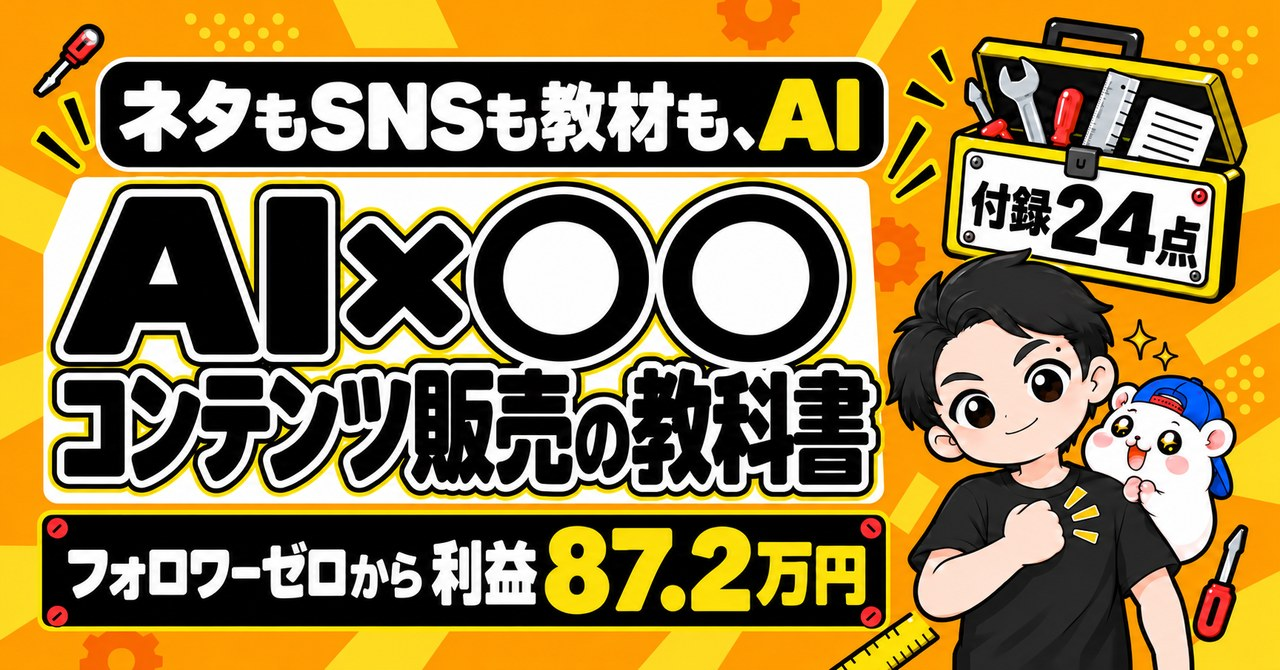
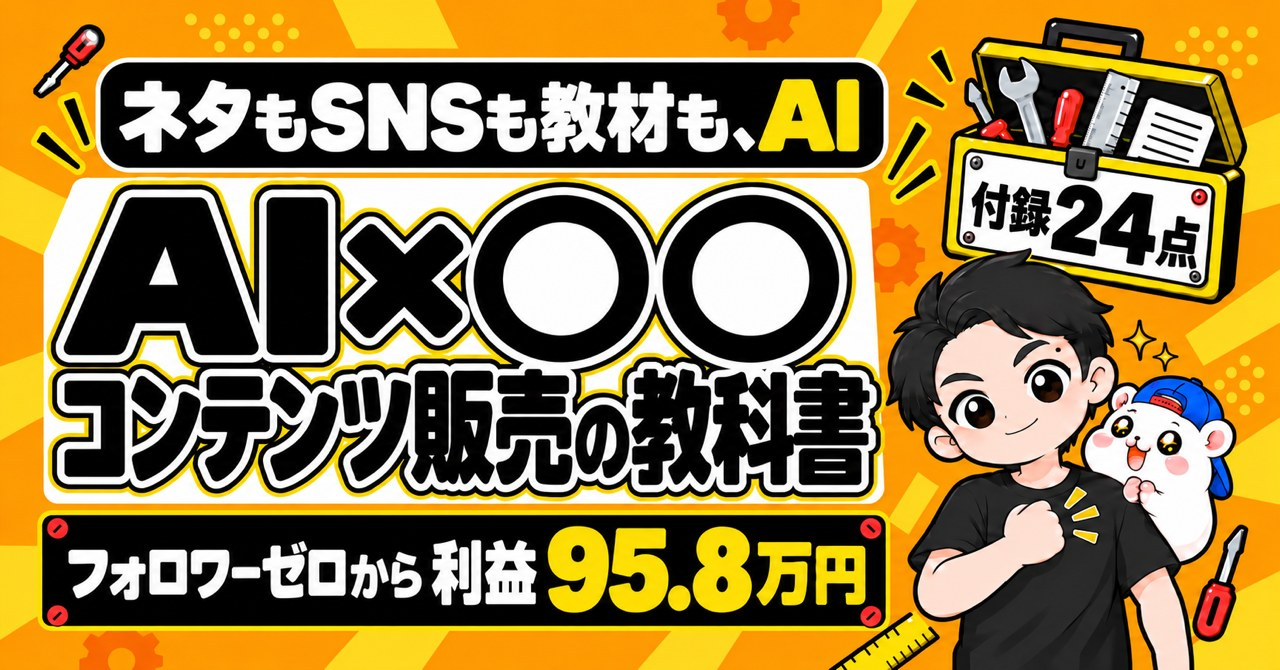
Update the AI content-sales textbook's track record to 95.8万円 (54 days, 80 copies) on its sales page and article promos

diff --git a/articles/2026-10-19-content-sales-pyramid-44-percent-zero.html b/articles/2026-10-19-content-sales-pyramid-44-percent-zero.html
@@ -127,7 +127,7 @@
 <li><strong>次に、これまでの売上で10万円</strong>(上位17%)</li>
 <li><strong>そのあと、月10万円</strong>(この90日に動いている人の上位10%)</li>
 </ol>
-<p>例えば、ぼくは発売から47日で63部、利益87.2万円でした。</p>
+<p>例えば、ぼくは発売から54日で80部、利益95.8万円でした。</p>
 <p>1部売れると、何が効いたかが分かります。</p>
 <p>そこからは、効いたことを増やすだけです。</p>
 <p>自分がいまどの段にいるかは、この指示文でAIに出してもらえます。</p>
@@ -149,21 +149,21 @@
 <hr/>
 <!-- kyokasho-promo start -->
 <p>▼1部目から、ひとつ上の段まで。やったことを1冊にまとめてあります</p>
-<p>フォロワーゼロから利益87.2万円まで、47日間の数字と失敗と手順を、全部書いた教科書です。</p>
+<p>フォロワーゼロから利益95.8万円まで、54日間の数字と失敗と手順を、全部書いた教科書です。</p>
 <p>録音から記事、教材、販売ページ、売れたあとの台帳まで。うちで毎日使っているツールも付録に入れました。</p>
-<p>『「AI×◯◯」コンテンツ販売の教科書｜フォロワーゼロから利益87.2万円』</p>
-<div class="link-card-wrap"><a class="link-card" href="https://rental-space.net/kyokasho/ai-contents/?utm_source=blog&amp;utm_medium=article&amp;utm_campaign=content-sales-pyramid"><span class="lc-body"><span class="lc-title">「AI×◯◯」コンテンツ販売の教科書｜フォロワーゼロから利益87.2万円</span><span class="lc-desc">AIでやったことを、AIで教材にして売る。フォロワーゼロから発売47日で利益87.2万円。最初の章(第0部)は全部無料で読めます。</span><span class="lc-site">rental-space.net</span></span><span class="lc-thumb"><img src="/kyokasho/ai-contents/img/ogp.jpg" alt="" loading="lazy"></span></a></div>
+<p>『「AI×◯◯」コンテンツ販売の教科書｜フォロワーゼロから利益95.8万円』</p>
+<div class="link-card-wrap"><a class="link-card" href="https://rental-space.net/kyokasho/ai-contents/?utm_source=blog&amp;utm_medium=article&amp;utm_campaign=content-sales-pyramid"><span class="lc-body"><span class="lc-title">「AI×◯◯」コンテンツ販売の教科書｜フォロワーゼロから利益95.8万円</span><span class="lc-desc">AIでやったことを、AIで教材にして売る。フォロワーゼロから発売54日で利益95.8万円。最初の章(第0部)は全部無料で読めます。</span><span class="lc-site">rental-space.net</span></span><span class="lc-thumb"><img src="/kyokasho/ai-contents/img/ogp.jpg" alt="" loading="lazy"></span></a></div>
 <p>販売価格は3部売れるごとに2,000円ずつ値上がりします（上限あり）。内容・最新価格は販売ページをご確認ください。</p>
 <!-- kyokasho-promo end -->
 </div>
 <!-- kyokasho-banner-ai start -->
 <aside class="kyokasho-banner kb-ai">
     <a href="/kyokasho/ai-contents/" class="kb-thumb">
-        <img src="/kyokasho/ai-contents/img/ogp.jpg" alt="「AI×◯◯」コンテンツ販売の教科書｜フォロワーゼロから利益87.2万円" loading="lazy" width="640" height="335">
+        <img src="/kyokasho/ai-contents/img/ogp.jpg" alt="「AI×◯◯」コンテンツ販売の教科書｜フォロワーゼロから利益95.8万円" loading="lazy" width="640" height="335">
     </a>
     <div class="kb-body">
         <p class="kb-title">「AI×◯◯」コンテンツ販売の教科書</p>
-        <p class="kb-sub">フォロワーゼロから利益87.2万円まで、47日間の数字と失敗と手順を全部書きました。録音から記事・教材・販売ページ・売れたあとの台帳まで。付録24点つき。販売価格は3部売れるごとに2,000円ずつ値上がりします（上限あり）。内容・最新価格は販売ページをご確認ください。</p>
+        <p class="kb-sub">フォロワーゼロから利益95.8万円まで、54日間の数字と失敗と手順を全部書きました。録音から記事・教材・販売ページ・売れたあとの台帳まで。付録24点つき。販売価格は3部売れるごとに2,000円ずつ値上がりします（上限あり）。内容・最新価格は販売ページをご確認ください。</p>
         <div class="kb-actions">
             <a href="/kyokasho/ai-contents/" class="kb-btn kb-btn-ebay">くわしく見る・買う</a>
         </div>

diff --git a/articles/2026-10-20-content-sales-starts-with-voice-recording.html b/articles/2026-10-20-content-sales-starts-with-voice-recording.html
@@ -200,21 +200,21 @@
 <hr/>
 <!-- kyokasho-promo start -->
 <p>▼録音から記事、教材、販売ページまで。やったことを1冊にまとめてあります</p>
-<p>フォロワーゼロから利益87.2万円まで、47日間の数字と失敗と手順を、全部書いた教科書です。</p>
+<p>フォロワーゼロから利益95.8万円まで、54日間の数字と失敗と手順を、全部書いた教科書です。</p>
 <p>録音から記事、教材、販売ページ、売れたあとの台帳まで。うちで毎日使っているツールも付録に入れました。</p>
-<p>『「AI×◯◯」コンテンツ販売の教科書｜フォロワーゼロから利益87.2万円』</p>
-<div class="link-card-wrap"><a class="link-card" href="https://rental-space.net/kyokasho/ai-contents/?utm_source=blog&amp;utm_medium=article&amp;utm_campaign=content-sales-starts-with-voice-recording"><span class="lc-body"><span class="lc-title">「AI×◯◯」コンテンツ販売の教科書｜フォロワーゼロから利益87.2万円</span><span class="lc-desc">AIでやったことを、AIで教材にして売る。フォロワーゼロから発売47日で利益87.2万円。最初の章(第0部)は全部無料で読めます。</span><span class="lc-site">rental-space.net</span></span><span class="lc-thumb"><img src="/kyokasho/ai-contents/img/ogp.jpg" alt="" loading="lazy"></span></a></div>
+<p>『「AI×◯◯」コンテンツ販売の教科書｜フォロワーゼロから利益95.8万円』</p>
+<div class="link-card-wrap"><a class="link-card" href="https://rental-space.net/kyokasho/ai-contents/?utm_source=blog&amp;utm_medium=article&amp;utm_campaign=content-sales-starts-with-voice-recording"><span class="lc-body"><span class="lc-title">「AI×◯◯」コンテンツ販売の教科書｜フォロワーゼロから利益95.8万円</span><span class="lc-desc">AIでやったことを、AIで教材にして売る。フォロワーゼロから発売54日で利益95.8万円。最初の章(第0部)は全部無料で読めます。</span><span class="lc-site">rental-space.net</span></span><span class="lc-thumb"><img src="/kyokasho/ai-contents/img/ogp.jpg" alt="" loading="lazy"></span></a></div>
 <p>販売価格は3部売れるごとに2,000円ずつ値上がりします（上限あり）。内容・最新価格は販売ページをご確認ください。</p>
 <!-- kyokasho-promo end -->
 </div>
 <!-- kyokasho-banner-ai start -->
 <aside class="kyokasho-banner kb-ai">
     <a href="/kyokasho/ai-contents/" class="kb-thumb">
-        <img src="/kyokasho/ai-contents/img/ogp.jpg" alt="「AI×◯◯」コンテンツ販売の教科書｜フォロワーゼロから利益87.2万円" loading="lazy" width="640" height="335">
+        <img src="/kyokasho/ai-contents/img/ogp.jpg" alt="「AI×◯◯」コンテンツ販売の教科書｜フォロワーゼロから利益95.8万円" loading="lazy" width="640" height="335">
     </a>
     <div class="kb-body">
         <p class="kb-title">「AI×◯◯」コンテンツ販売の教科書</p>
-        <p class="kb-sub">フォロワーゼロから利益87.2万円まで、47日間の数字と失敗と手順を全部書きました。録音から記事・教材・販売ページ・売れたあとの台帳まで。付録24点つき。販売価格は3部売れるごとに2,000円ずつ値上がりします（上限あり）。内容・最新価格は販売ページをご確認ください。</p>
+        <p class="kb-sub">フォロワーゼロから利益95.8万円まで、54日間の数字と失敗と手順を全部書きました。録音から記事・教材・販売ページ・売れたあとの台帳まで。付録24点つき。販売価格は3部売れるごとに2,000円ずつ値上がりします（上限あり）。内容・最新価格は販売ページをご確認ください。</p>
         <div class="kb-actions">
             <a href="/kyokasho/ai-contents/" class="kb-btn kb-btn-ebay">くわしく見る・買う</a>
         </div>

diff --git a/articles/2026-10-18-manga-shorts-ai-daily.html b/articles/2026-10-18-manga-shorts-ai-daily.html
@@ -192,22 +192,22 @@
 <hr/>
 <!-- kyokasho-promo start -->
 <p>▼記事を素材にして発信を回すやり方は、ぜんぶ1冊にまとめてあります</p>
-<p>フォロワーゼロから利益87.2万円まで、47日間の数字と失敗と手順を、全部書いた教科書です。</p>
+<p>フォロワーゼロから利益95.8万円まで、54日間の数字と失敗と手順を、全部書いた教科書です。</p>
 <p>録音から記事、教材、販売ページ、売れたあとの台帳まで。うちで毎日使っているツールも付録に入れました。</p>
 <p>動画の章(第8部)は第2版で足します。すでに買った人には、追加料金はかかりません。</p>
-<p>『「AI×◯◯」コンテンツ販売の教科書｜フォロワーゼロから利益87.2万円』</p>
-<div class="link-card-wrap"><a class="link-card" href="https://rental-space.net/kyokasho/ai-contents/"><span class="lc-body"><span class="lc-title">「AI×◯◯」コンテンツ販売の教科書｜フォロワーゼロから利益87.2万円</span><span class="lc-desc">AIでやったことを、AIで教材にして売る。フォロワーゼロから発売47日で利益87.2万円。最初の章(第0部)は全部無料で読めます。</span><span class="lc-site">rental-space.net</span></span><span class="lc-thumb"><img src="/kyokasho/ai-contents/img/ogp.jpg" alt="" loading="lazy"></span></a></div>
+<p>『「AI×◯◯」コンテンツ販売の教科書｜フォロワーゼロから利益95.8万円』</p>
+<div class="link-card-wrap"><a class="link-card" href="https://rental-space.net/kyokasho/ai-contents/"><span class="lc-body"><span class="lc-title">「AI×◯◯」コンテンツ販売の教科書｜フォロワーゼロから利益95.8万円</span><span class="lc-desc">AIでやったことを、AIで教材にして売る。フォロワーゼロから発売54日で利益95.8万円。最初の章(第0部)は全部無料で読めます。</span><span class="lc-site">rental-space.net</span></span><span class="lc-thumb"><img src="/kyokasho/ai-contents/img/ogp.jpg" alt="" loading="lazy"></span></a></div>
 <p>販売価格は3部売れるごとに2,000円ずつ値上がりします（上限あり）。内容・最新価格は販売ページをご確認ください。</p>
 <!-- kyokasho-promo end -->
 </div>
 <!-- kyokasho-banner-ai start -->
 <aside class="kyokasho-banner kb-ai">
     <a href="/kyokasho/ai-contents/" class="kb-thumb">
-        <img src="/kyokasho/ai-contents/img/ogp.jpg" alt="「AI×◯◯」コンテンツ販売の教科書｜フォロワーゼロから利益87.2万円" loading="lazy" width="640" height="335">
+        <img src="/kyokasho/ai-contents/img/ogp.jpg" alt="「AI×◯◯」コンテンツ販売の教科書｜フォロワーゼロから利益95.8万円" loading="lazy" width="640" height="335">
     </a>
     <div class="kb-body">
         <p class="kb-title">「AI×◯◯」コンテンツ販売の教科書</p>
-        <p class="kb-sub">フォロワーゼロから利益87.2万円まで、47日間の数字と失敗と手順を全部書きました。録音から記事・教材・販売ページ・売れたあとの台帳まで。付録24点つき。販売価格は3部売れるごとに2,000円ずつ値上がりします（上限あり）。内容・最新価格は販売ページをご確認ください。</p>
+        <p class="kb-sub">フォロワーゼロから利益95.8万円まで、54日間の数字と失敗と手順を全部書きました。録音から記事・教材・販売ページ・売れたあとの台帳まで。付録24点つき。販売価格は3部売れるごとに2,000円ずつ値上がりします（上限あり）。内容・最新価格は販売ページをご確認ください。</p>
         <div class="kb-actions">
             <a href="/kyokasho/ai-contents/" class="kb-btn kb-btn-ebay">くわしく見る・買う</a>
         </div>

diff --git a/articles/2026-10-17-content-sales-idea-order.html b/articles/2026-10-17-content-sales-idea-order.html
@@ -197,21 +197,21 @@
 <hr/>
 <!-- kyokasho-promo start -->
 <p>▼AIで稼いで、教材にして売るまでを、ぜんぶ1冊にまとめてあります</p>
-<p>フォロワーゼロから利益87.2万円まで、47日間の数字と失敗と手順を、全部書いた教科書です。</p>
+<p>フォロワーゼロから利益95.8万円まで、54日間の数字と失敗と手順を、全部書いた教科書です。</p>
 <p>録音から記事、教材、販売ページ、売れたあとの台帳まで。うちで毎日使っているツールも付録に入れました。</p>
-<p>『「AI×◯◯」コンテンツ販売の教科書｜フォロワーゼロから利益87.2万円』</p>
-<div class="link-card-wrap"><a class="link-card" href="https://rental-space.net/kyokasho/ai-contents/"><span class="lc-body"><span class="lc-title">「AI×◯◯」コンテンツ販売の教科書｜フォロワーゼロから利益87.2万円</span><span class="lc-desc">AIでやったことを、AIで教材にして売る。フォロワーゼロから発売47日で利益87.2万円。最初の章(第0部)は全部無料で読めます。</span><span class="lc-site">rental-space.net</span></span><span class="lc-thumb"><img src="/kyokasho/ai-contents/img/ogp.jpg" alt="" loading="lazy"></span></a></div>
+<p>『「AI×◯◯」コンテンツ販売の教科書｜フォロワーゼロから利益95.8万円』</p>
+<div class="link-card-wrap"><a class="link-card" href="https://rental-space.net/kyokasho/ai-contents/"><span class="lc-body"><span class="lc-title">「AI×◯◯」コンテンツ販売の教科書｜フォロワーゼロから利益95.8万円</span><span class="lc-desc">AIでやったことを、AIで教材にして売る。フォロワーゼロから発売54日で利益95.8万円。最初の章(第0部)は全部無料で読めます。</span><span class="lc-site">rental-space.net</span></span><span class="lc-thumb"><img src="/kyokasho/ai-contents/img/ogp.jpg" alt="" loading="lazy"></span></a></div>
 <p>販売価格は3部売れるごとに2,000円ずつ値上がりします（上限あり）。内容・最新価格は販売ページをご確認ください。</p>
 <!-- kyokasho-promo end -->
 </div>
 <!-- kyokasho-banner-ai start -->
 <aside class="kyokasho-banner kb-ai">
     <a href="/kyokasho/ai-contents/" class="kb-thumb">
-        <img src="/kyokasho/ai-contents/img/ogp.jpg" alt="「AI×◯◯」コンテンツ販売の教科書｜フォロワーゼロから利益87.2万円" loading="lazy" width="640" height="335">
+        <img src="/kyokasho/ai-contents/img/ogp.jpg" alt="「AI×◯◯」コンテンツ販売の教科書｜フォロワーゼロから利益95.8万円" loading="lazy" width="640" height="335">
     </a>
     <div class="kb-body">
         <p class="kb-title">「AI×◯◯」コンテンツ販売の教科書</p>
-        <p class="kb-sub">フォロワーゼロから利益87.2万円まで、47日間の数字と失敗と手順を全部書きました。録音から記事・教材・販売ページ・売れたあとの台帳まで。付録24点つき。販売価格は3部売れるごとに2,000円ずつ値上がりします（上限あり）。内容・最新価格は販売ページをご確認ください。</p>
+        <p class="kb-sub">フォロワーゼロから利益95.8万円まで、54日間の数字と失敗と手順を全部書きました。録音から記事・教材・販売ページ・売れたあとの台帳まで。付録24点つき。販売価格は3部売れるごとに2,000円ずつ値上がりします（上限あり）。内容・最新価格は販売ページをご確認ください。</p>
         <div class="kb-actions">
             <a href="/kyokasho/ai-contents/" class="kb-btn kb-btn-ebay">くわしく見る・買う</a>
         </div>

diff --git a/articles/2026-10-18-content-sales-price-up-ai.html b/articles/2026-10-18-content-sales-price-up-ai.html
@@ -179,21 +179,21 @@
 <hr/>
 <!-- kyokasho-promo start -->
 <p>▼売れた部数の台帳と値上げのツールも、1冊にまとめてあります</p>
-<p>フォロワーゼロから利益87.2万円まで、47日間の数字と失敗と手順を、全部書いた教科書です。</p>
+<p>フォロワーゼロから利益95.8万円まで、54日間の数字と失敗と手順を、全部書いた教科書です。</p>
 <p>録音から記事、教材、販売ページ、売れたあとの台帳まで。うちで毎日使っているツールも付録に入れました。</p>
-<p>『「AI×◯◯」コンテンツ販売の教科書｜フォロワーゼロから利益87.2万円』</p>
-<div class="link-card-wrap"><a class="link-card" href="https://rental-space.net/kyokasho/ai-contents/"><span class="lc-body"><span class="lc-title">「AI×◯◯」コンテンツ販売の教科書｜フォロワーゼロから利益87.2万円</span><span class="lc-desc">AIでやったことを、AIで教材にして売る。フォロワーゼロから発売47日で利益87.2万円。最初の章(第0部)は全部無料で読めます。</span><span class="lc-site">rental-space.net</span></span><span class="lc-thumb"><img src="/kyokasho/ai-contents/img/ogp.jpg" alt="" loading="lazy"></span></a></div>
+<p>『「AI×◯◯」コンテンツ販売の教科書｜フォロワーゼロから利益95.8万円』</p>
+<div class="link-card-wrap"><a class="link-card" href="https://rental-space.net/kyokasho/ai-contents/"><span class="lc-body"><span class="lc-title">「AI×◯◯」コンテンツ販売の教科書｜フォロワーゼロから利益95.8万円</span><span class="lc-desc">AIでやったことを、AIで教材にして売る。フォロワーゼロから発売54日で利益95.8万円。最初の章(第0部)は全部無料で読めます。</span><span class="lc-site">rental-space.net</span></span><span class="lc-thumb"><img src="/kyokasho/ai-contents/img/ogp.jpg" alt="" loading="lazy"></span></a></div>
 <p>販売価格は3部売れるごとに2,000円ずつ値上がりします（上限あり）。内容・最新価格は販売ページをご確認ください。</p>
 <!-- kyokasho-promo end -->
 </div>
 <!-- kyokasho-banner-ai start -->
 <aside class="kyokasho-banner kb-ai">
     <a href="/kyokasho/ai-contents/" class="kb-thumb">
-        <img src="/kyokasho/ai-contents/img/ogp.jpg" alt="「AI×◯◯」コンテンツ販売の教科書｜フォロワーゼロから利益87.2万円" loading="lazy" width="640" height="335">
+        <img src="/kyokasho/ai-contents/img/ogp.jpg" alt="「AI×◯◯」コンテンツ販売の教科書｜フォロワーゼロから利益95.8万円" loading="lazy" width="640" height="335">
     </a>
     <div class="kb-body">
         <p class="kb-title">「AI×◯◯」コンテンツ販売の教科書</p>
-        <p class="kb-sub">フォロワーゼロから利益87.2万円まで、47日間の数字と失敗と手順を全部書きました。録音から記事・教材・販売ページ・売れたあとの台帳まで。付録24点つき。販売価格は3部売れるごとに2,000円ずつ値上がりします（上限あり）。内容・最新価格は販売ページをご確認ください。</p>
+        <p class="kb-sub">フォロワーゼロから利益95.8万円まで、54日間の数字と失敗と手順を全部書きました。録音から記事・教材・販売ページ・売れたあとの台帳まで。付録24点つき。販売価格は3部売れるごとに2,000円ずつ値上がりします（上限あり）。内容・最新価格は販売ページをご確認ください。</p>
         <div class="kb-actions">
             <a href="/kyokasho/ai-contents/" class="kb-btn kb-btn-ebay">くわしく見る・買う</a>
         </div>

diff --git a/articles/2026-10-17-100yen-extension-12-sold.html b/articles/2026-10-17-100yen-extension-12-sold.html
@@ -177,21 +177,21 @@
 <hr/>
 <!-- kyokasho-promo start -->
 <p>▼AIで作って、売るまでを、ぜんぶ1冊にまとめてあります</p>
-<p>フォロワーゼロから利益87.2万円まで、47日間の数字と失敗と手順を、全部書いた教科書です。</p>
+<p>フォロワーゼロから利益95.8万円まで、54日間の数字と失敗と手順を、全部書いた教科書です。</p>
 <p>録音から記事、教材、販売ページ、売れたあとの台帳まで。うちで毎日使っているツールも付録に入れました。</p>
-<p>『「AI×◯◯」コンテンツ販売の教科書｜フォロワーゼロから利益87.2万円』</p>
-<div class="link-card-wrap"><a class="link-card" href="https://rental-space.net/kyokasho/ai-contents/"><span class="lc-body"><span class="lc-title">「AI×◯◯」コンテンツ販売の教科書｜フォロワーゼロから利益87.2万円</span><span class="lc-desc">AIでやったことを、AIで教材にして売る。フォロワーゼロから発売47日で利益87.2万円。最初の章(第0部)は全部無料で読めます。</span><span class="lc-site">rental-space.net</span></span><span class="lc-thumb"><img src="/kyokasho/ai-contents/img/ogp.jpg" alt="" loading="lazy"></span></a></div>
+<p>『「AI×◯◯」コンテンツ販売の教科書｜フォロワーゼロから利益95.8万円』</p>
+<div class="link-card-wrap"><a class="link-card" href="https://rental-space.net/kyokasho/ai-contents/"><span class="lc-body"><span class="lc-title">「AI×◯◯」コンテンツ販売の教科書｜フォロワーゼロから利益95.8万円</span><span class="lc-desc">AIでやったことを、AIで教材にして売る。フォロワーゼロから発売54日で利益95.8万円。最初の章(第0部)は全部無料で読めます。</span><span class="lc-site">rental-space.net</span></span><span class="lc-thumb"><img src="/kyokasho/ai-contents/img/ogp.jpg" alt="" loading="lazy"></span></a></div>
 <p>販売価格は3部売れるごとに2,000円ずつ値上がりします（上限あり）。内容・最新価格は販売ページをご確認ください。</p>
 <!-- kyokasho-promo end -->
 </div>
 <!-- kyokasho-banner-ai start -->
 <aside class="kyokasho-banner kb-ai">
     <a href="/kyokasho/ai-contents/" class="kb-thumb">
-        <img src="/kyokasho/ai-contents/img/ogp.jpg" alt="「AI×◯◯」コンテンツ販売の教科書｜フォロワーゼロから利益87.2万円" loading="lazy" width="640" height="335">
+        <img src="/kyokasho/ai-contents/img/ogp.jpg" alt="「AI×◯◯」コンテンツ販売の教科書｜フォロワーゼロから利益95.8万円" loading="lazy" width="640" height="335">
     </a>
     <div class="kb-body">
         <p class="kb-title">「AI×◯◯」コンテンツ販売の教科書</p>
-        <p class="kb-sub">フォロワーゼロから利益87.2万円まで、47日間の数字と失敗と手順を全部書きました。録音から記事・教材・販売ページ・売れたあとの台帳まで。付録24点つき。販売価格は3部売れるごとに2,000円ずつ値上がりします（上限あり）。内容・最新価格は販売ページをご確認ください。</p>
+        <p class="kb-sub">フォロワーゼロから利益95.8万円まで、54日間の数字と失敗と手順を全部書きました。録音から記事・教材・販売ページ・売れたあとの台帳まで。付録24点つき。販売価格は3部売れるごとに2,000円ずつ値上がりします（上限あり）。内容・最新価格は販売ページをご確認ください。</p>
         <div class="kb-actions">
             <a href="/kyokasho/ai-contents/" class="kb-btn kb-btn-ebay">くわしく見る・買う</a>
         </div>

diff --git a/articles/2026-10-17-content-sales-from-zero-followers.html b/articles/2026-10-17-content-sales-from-zero-followers.html
@@ -206,21 +206,21 @@
 <hr/>
 <!-- kyokasho-promo start -->
 <p>▼このやり方は、ぜんぶ1冊にまとめてあります</p>
-<p>フォロワーゼロから利益87.2万円まで、47日間の数字と失敗と手順を、全部書いた教科書です。</p>
+<p>フォロワーゼロから利益95.8万円まで、54日間の数字と失敗と手順を、全部書いた教科書です。</p>
 <p>録音から記事、教材、販売ページ、売れたあとの台帳まで。うちで毎日使っているツールも付録に入れました。</p>
-<p>『「AI×◯◯」コンテンツ販売の教科書｜フォロワーゼロから利益87.2万円』</p>
-<div class="link-card-wrap"><a class="link-card" href="https://rental-space.net/kyokasho/ai-contents/"><span class="lc-body"><span class="lc-title">「AI×◯◯」コンテンツ販売の教科書｜フォロワーゼロから利益87.2万円</span><span class="lc-desc">AIでやったことを、AIで教材にして売る。フォロワーゼロから発売47日で利益87.2万円。最初の章(第0部)は全部無料で読めます。</span><span class="lc-site">rental-space.net</span></span><span class="lc-thumb"><img src="/kyokasho/ai-contents/img/ogp.jpg" alt="" loading="lazy"></span></a></div>
+<p>『「AI×◯◯」コンテンツ販売の教科書｜フォロワーゼロから利益95.8万円』</p>
+<div class="link-card-wrap"><a class="link-card" href="https://rental-space.net/kyokasho/ai-contents/"><span class="lc-body"><span class="lc-title">「AI×◯◯」コンテンツ販売の教科書｜フォロワーゼロから利益95.8万円</span><span class="lc-desc">AIでやったことを、AIで教材にして売る。フォロワーゼロから発売54日で利益95.8万円。最初の章(第0部)は全部無料で読めます。</span><span class="lc-site">rental-space.net</span></span><span class="lc-thumb"><img src="/kyokasho/ai-contents/img/ogp.jpg" alt="" loading="lazy"></span></a></div>
 <p>販売価格は3部売れるごとに2,000円ずつ値上がりします（上限あり）。内容・最新価格は販売ページをご確認ください。</p>
 <!-- kyokasho-promo end -->
 </div>
 <!-- kyokasho-banner-ai start -->
 <aside class="kyokasho-banner kb-ai">
     <a href="/kyokasho/ai-contents/" class="kb-thumb">
-        <img src="/kyokasho/ai-contents/img/ogp.jpg" alt="「AI×◯◯」コンテンツ販売の教科書｜フォロワーゼロから利益87.2万円" loading="lazy" width="640" height="335">
+        <img src="/kyokasho/ai-contents/img/ogp.jpg" alt="「AI×◯◯」コンテンツ販売の教科書｜フォロワーゼロから利益95.8万円" loading="lazy" width="640" height="335">
     </a>
     <div class="kb-body">
         <p class="kb-title">「AI×◯◯」コンテンツ販売の教科書</p>
-        <p class="kb-sub">フォロワーゼロから利益87.2万円まで、47日間の数字と失敗と手順を全部書きました。録音から記事・教材・販売ページ・売れたあとの台帳まで。付録24点つき。販売価格は3部売れるごとに2,000円ずつ値上がりします（上限あり）。内容・最新価格は販売ページをご確認ください。</p>
+        <p class="kb-sub">フォロワーゼロから利益95.8万円まで、54日間の数字と失敗と手順を全部書きました。録音から記事・教材・販売ページ・売れたあとの台帳まで。付録24点つき。販売価格は3部売れるごとに2,000円ずつ値上がりします（上限あり）。内容・最新価格は販売ページをご確認ください。</p>
         <div class="kb-actions">
             <a href="/kyokasho/ai-contents/" class="kb-btn kb-btn-ebay">くわしく見る・買う</a>
         </div>
